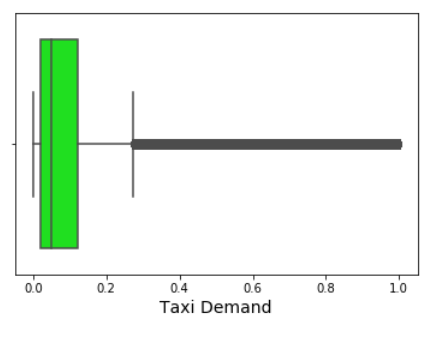
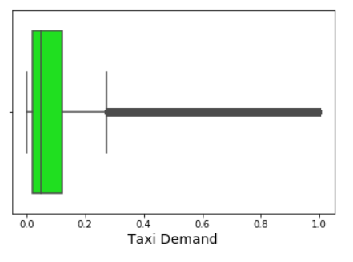
Update again

Changed region(s): [[0.0312, 0.0305, 0.966, 0.9466]]

diff --git a/1_preprocessing/README.md b/1_preprocessing/README.md
@@ -10,21 +10,18 @@ Here are some of our findings:
 1. There is a total of 4.2 million records, with demand values are normalized between 0 and 1 and no null values. <br/>
 There are 1329 locations, 61 days/5856 timestamps (15min intervals). <br/> Datatypes and string formats are all correct, no duplicate timestamps etc.
 
-2. The dataset should contain 1329 locations * 5856 timestamps demand values. <br/> However, it is missing roughly half the number of demand values. <br/> Furthermore, some timestamps have
-no demand values for all locations. 
-
-I came up with a method to fill up the missing data, which is recorded in '3_fill_missing'.
+2. The dataset should contain 1329 locations * 5856 timestamps demand values. <br/> However, it is missing roughly half the number of demand values. <br/> Furthermore, some timestamps have no demand values for all locations. </br> I came up with a method to fill up the missing data, which is recorded in '3_fill_missing'.
 
 _Update: I received a notification on the updated FAQ from Grab, in which they instructed participants to simply fill the missing values with 0. I have updated the final script "Full_Pipeline.ipynb" accordingly. However, the original scripts found in the subdirectories will maintain the approach of generating values for the missing data for reference's sake. (Incidentally, there is hardly any change in the holdout rmse in both approaches, which is rather curious)._
 
 3. The dataset is rather skewed, with majority of demand values closer to 0, with a trailing tail after demand = 0.25, towards 1. Thus, the mean (0.105) is much higher than the median (0.0504), instead it is closer to the 75th percentile (0.120) and standard deviation (0.159). We may have to account for the skew later on, such as by partitioning the dataset into groups based on demand values.
 
-![Box plot of demand values](../images/box_plot.png?raw=true "Box Plot of Demand values"){:height="70%" width="70%"}
+![Box plot of demand values](../images/box_plot.png?raw=true "Box Plot of Demand values")
 
 # Data Preprocessing
 
 As mentioned, we transform the dataset such that the columns are the datetimes are the columns, while the geolocations are the rows, and each cell is the demand for the time bucket at the specific location. This allows us to efficiently retrieve ranges of demand values for specific time frames to craft our features and labels.
 
-![Transform train set to efficient format](../images/df_train_to_transformed.png?raw=true "Transforming train set"){:height="70%" width="70%"}
+![Transform train set to efficient format](../images/df_train_to_transformed.png?raw=true "Transforming train set")
 
-![Efficient features and labels extraction](../images/extraction_feature_label.png?raw=true "Efficient features and labels extraction"){:height="70%" width="70%"}
+![Efficient features and labels extraction](../images/extraction_feature_label.png?raw=true "Efficient features and labels extraction")
